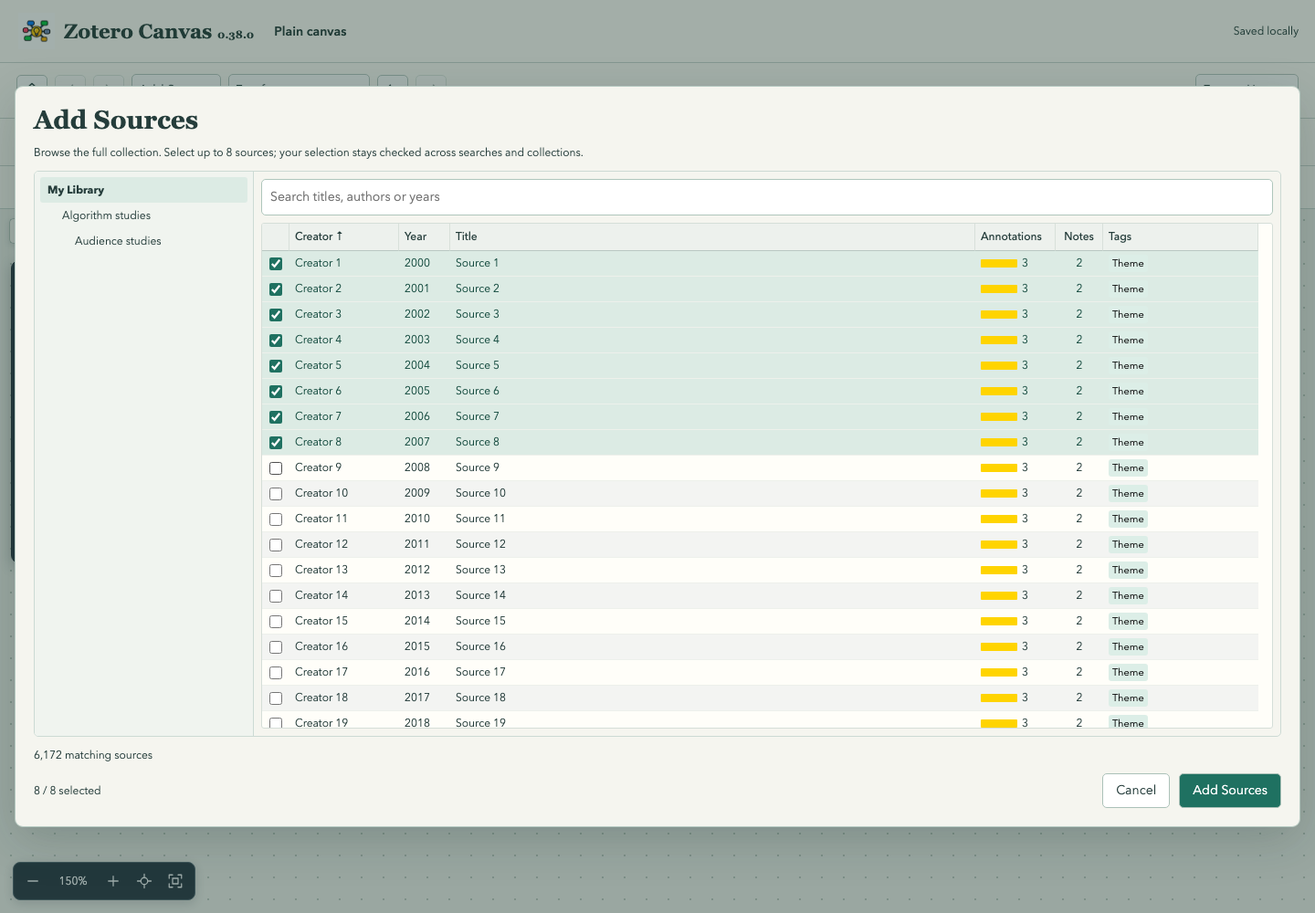
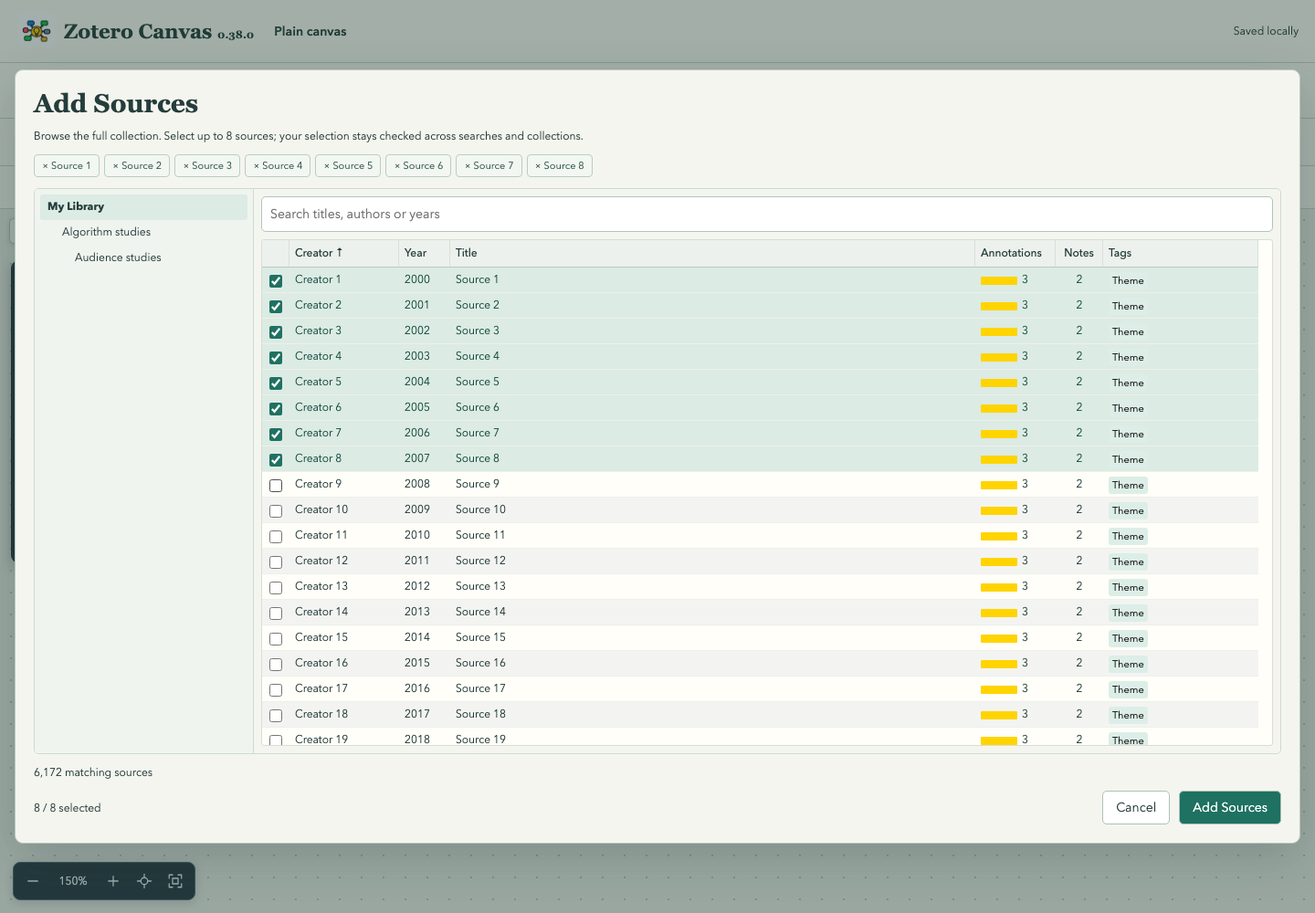
Open source picker on research canvas creation and exclude templates from Send to Canvas

Changed region(s): [[0.0, 0.062, 1.0, 0.93]]

diff --git a/content/source-picker.js b/content/source-picker.js
@@ -1,13 +1,16 @@
 'use strict';
 window.CanvasSourcePicker=function(ctx){
-  const el=ctx.element,shade=el('div'),dialog=el('section'),heading=el('h2'),help=el('p'),body=el('div'),tree=el('nav'),main=el('div'),search=el('input'),list=el('div'),more=el('button'),message=el('p'),focus=el('input'),footer=el('div'),count=el('span'),cancel=el('button'),confirm=el('button');
+  const el=ctx.element,shade=el('div'),dialog=el('section'),heading=el('h2'),help=el('p'),sourceMode=el('div'),selectedTray=el('div'),body=el('div'),tree=el('nav'),main=el('div'),search=el('input'),list=el('div'),more=el('button'),message=el('p'),focus=el('input'),footer=el('div'),count=el('span'),cancel=el('button'),confirm=el('button');
   shade.id='source-picker-shade';shade.className='dialog-shade';shade.hidden=true;dialog.id='source-picker';dialog.setAttribute('role','dialog');dialog.setAttribute('aria-modal','true');dialog.setAttribute('aria-labelledby','source-picker-title');heading.id='source-picker-title';heading.textContent='Add Sources';help.textContent='Browse the full collection. Select up to 8 sources; your selection stays checked across searches and collections.';
   body.className='source-picker-body';tree.setAttribute('aria-label','Zotero libraries and collections');main.className='source-picker-items';search.type='search';search.maxLength=300;search.placeholder='Search titles, authors or years';search.setAttribute('aria-label','Search Zotero sources');list.id='source-picker-items';more.type='button';more.textContent='Retry loading sources';more.hidden=true;message.setAttribute('role','status');focus.placeholder='Optional topic, concept or question';focus.maxLength=500;focus.setAttribute('aria-label','Focus for AI analysis');footer.className='source-picker-actions';cancel.type=confirm.type='button';cancel.textContent='Cancel';confirm.textContent='Add Sources';
-  main.append(search,list,more);body.append(tree,main);footer.append(count,cancel,confirm);dialog.append(heading,help,body,focus,message,footer);shade.append(dialog);document.body.append(shade);
+  sourceMode.className='source-picker-mode';sourceMode.hidden=true;const extend=el('button'),replace=el('button');for(const button of [extend,replace])button.type='button';extend.textContent='Keep and add sources';replace.textContent='Replace current sources';sourceMode.append(extend,replace);selectedTray.className='source-picker-selected';selectedTray.setAttribute('aria-label','Selected sources');selectedTray.hidden=true;
+  main.append(search,list,more);body.append(tree,main);footer.append(count,cancel,confirm);dialog.append(heading,help,sourceMode,selectedTray,body,focus,message,footer);shade.append(dialog);document.body.append(shade);
   const table=el('table'),thead=el('thead'),tbody=el('tbody'),pageSize=80,rowHeight=28,pages=new Map(),pending=new Map(),failed=new Set();table.className='source-table';table.setAttribute('aria-label','Zotero sources');list.tabIndex=0;list.setAttribute('role','region');list.setAttribute('aria-label','Source items');table.append(thead,tbody);list.append(table);let session='',sortBy='creator',sortDirection='asc',scrollFrame=null;
-  let catalog=[],selected=new Map(),libraryID=null,collectionID=null,offset=0,total=0,rows=[],request=0,busy=false,openingBoard=null,timer;
+  let catalog=[],selected=new Map(),existing=new Map(),libraryID=null,collectionID=null,offset=0,total=0,rows=[],request=0,busy=false,openingBoard=null,timer;
   const fail=error=>{message.textContent=error.message;message.classList.add('error');more.hidden=false;};
-  function update(){count.textContent=selected.size+' / 8 selected';confirm.disabled=busy||!selected.size;cancel.disabled=busy;search.disabled=busy;focus.disabled=busy;more.disabled=busy;for(const b of [...tree.querySelectorAll('button'),...thead.querySelectorAll('button')])b.disabled=busy;}
+  function update(){count.textContent=selected.size+' / 8 selected';selectedTray.hidden=!selected.size;selectedTray.replaceChildren();for(const row of selected.values()){const chip=el('button');chip.type='button';chip.textContent='× '+row.title;chip.title=row.title;chip.setAttribute('aria-label','Remove source '+row.title);chip.disabled=busy;chip.onclick=()=>{selected.delete(row.id);renderRows();update();};selectedTray.append(chip);}confirm.disabled=busy||!selected.size;cancel.disabled=busy;search.disabled=busy;focus.disabled=busy;more.disabled=busy;for(const b of [...tree.querySelectorAll('button'),...thead.querySelectorAll('button'),extend,replace])b.disabled=busy;}
+  function chooseMode(keep){selected=keep?new Map(existing):new Map();extend.setAttribute('aria-pressed',String(keep));replace.setAttribute('aria-pressed',String(!keep));renderRows();update();}
+  extend.onclick=()=>chooseMode(true);replace.onclick=()=>chooseMode(false);
   function close(){if(busy)return;request++;clearTimeout(timer);shade.hidden=true;document.getElementById('add-zotero')?.focus();}
   function renderHead(){
     const tr=el('tr');for(const [key,label] of [['select','Select'],['creator','Creator'],['year','Year'],['title','Title'],['annotations','Annotations'],['notes','Notes'],['tags','Tags']]){
@@ -44,7 +47,7 @@ window.CanvasSourcePicker=function(ctx){
   }
   async function load(){request++;session=crypto.randomUUID();pages.clear();pending.clear();failed.clear();total=0;list.scrollTop=0;tbody.replaceChildren();more.hidden=true;message.classList.remove('error');message.textContent='Loading sources…';await loadPage(0);}
   function renderTree(){tree.replaceChildren();for(const library of catalog){const lib=el('button');lib.type='button';lib.textContent=library.name;lib.className='source-library';lib.setAttribute('aria-pressed',String(library.id===libraryID&&collectionID===null));lib.onclick=()=>{libraryID=library.id;collectionID=null;renderTree();load();};tree.append(lib);const byID=new Map(library.collections.map(c=>[c.id,c]));for(const c of library.collections){let depth=0,parent=c.parentID;const seen=new Set([c.id]);while(parent&&byID.has(parent)&&!seen.has(parent)&&depth<8){seen.add(parent);depth++;parent=byID.get(parent).parentID;}const button=el('button');button.type='button';button.textContent=c.name;button.style.paddingLeft=(24+depth*14)+'px';button.setAttribute('aria-pressed',String(library.id===libraryID&&c.id===collectionID));button.onclick=()=>{libraryID=library.id;collectionID=c.id;renderTree();load();};tree.append(button);}}update();}
-  async function open(){if(!ctx.bridge.sourceCatalog||!ctx.bridge.sourceItems){ctx.report(Error('Add Sources is available in the installed Zotero plugin.'));return;}selected=new Map();search.value=focus.value='';openingBoard=ctx.getBoard().id;shade.hidden=false;renderHead();message.textContent='Loading Zotero libraries…';confirm.textContent=ctx.getBoard().templateDraft||ctx.getBoard().templateBlueprint?'Populate template':'Add Sources';focus.hidden=confirm.textContent==='Add Sources';update();try{const token=++request;catalog=await ctx.bridge.sourceCatalog();if(token!==request||shade.hidden)return;if(!catalog.length)throw Error('No Zotero libraries are available.');libraryID=catalog[0].id;collectionID=null;renderTree();await load();search.focus();}catch(error){fail(error);}}
+  async function open(){if(!ctx.bridge.sourceCatalog||!ctx.bridge.sourceItems){ctx.report(Error('Add Sources is available in the installed Zotero plugin.'));return;}selected=new Map();existing=new Map();pages.clear();total=0;search.value='';const opening=ctx.getBoard();focus.value=opening.sourceFocus||'';openingBoard=opening.id;shade.hidden=false;renderHead();message.textContent='Loading Zotero libraries…';confirm.textContent=opening.templateDraft||opening.templateBlueprint?'Populate template':'Add Sources';focus.hidden=confirm.textContent==='Add Sources';sourceMode.hidden=true;update();try{const token=++request;const [nextCatalog,sources]=await Promise.all([ctx.bridge.sourceCatalog(),opening.templateBlueprint&&ctx.bridge.sourceSelection?ctx.bridge.sourceSelection(opening):[]]);if(token!==request||shade.hidden)return;catalog=nextCatalog;if(!catalog.length)throw Error('No Zotero libraries are available.');existing=new Map(sources.map(row=>[row.id,row]));sourceMode.hidden=!existing.size;if(existing.size)chooseMode(true);libraryID=catalog[0].id;collectionID=null;renderTree();await load();search.focus();}catch(error){fail(error);}}
   search.oninput=()=>{clearTimeout(timer);request++;timer=setTimeout(()=>load(),220);};more.onclick=()=>{failed.clear();more.hidden=true;if(!total)load();else renderRows();};cancel.onclick=close;
   list.onscroll=()=>{if(scrollFrame!==null)return;scrollFrame=requestAnimationFrame(()=>{scrollFrame=null;renderRows();});};
   confirm.onclick=async()=>{if(busy||!selected.size)return;if(ctx.getBoard().id!==openingBoard){fail(Error('The canvas changed. Close this picker and choose sources again.'));return;}busy=true;update();renderRows();message.classList.remove('error');message.textContent='Reading selected sources…';try{await ctx.apply([...selected.keys()],focus.value,text=>message.textContent=text);busy=false;close();}catch(error){fail(error);}finally{busy=false;update();renderRows();}};

diff --git a/content/canvas.js b/content/canvas.js
@@ -626,7 +626,7 @@ async function closeNote() {
   finally { if (noteFrame) noteFrame.inert = false; $('close-note').disabled = false; }
 }
 function itemNode(item,x,y){const n=M.node(x,y,item.title,item.text);n.link=item.link;if(item.metadata)n.metadata=M.clone(item.metadata);n.kind=item.kind||'reference';if(n.kind==='annotation'){n.annotationHTML=item.annotationHTML;if(item.evidenceQuote?.length>=12)n.evidenceQuote=item.evidenceQuote;if(item.annotationColour){n.annotationColour=item.annotationColour;n.annotationColourName=item.annotationColourName||'Custom colour';}if(item.annotationKey)n.annotationKey=item.annotationKey;}return n;}
-function addItems(items,x,y){if(!items.length){status('Select or drop notes and references from Zotero first.');return;}checkpoint();items.forEach((item,i)=>board.nodes.push(itemNode(item,x+i*35,y+i*45)));changed();render();}
+function addItems(items,x,y){if(board.templateDraft)throw Error('Zotero items can be sent to active canvases only. Edit template instructions from Templates.');if(!items.length){status('Select or drop notes and references from Zotero first.');return;}checkpoint();items.forEach((item,i)=>board.nodes.push(itemNode(item,x+i*35,y+i*45)));changed();render();}
 async function addCounterexample(row,sourceID,expectedBoard){
   if(board!==expectedBoard)throw Error('The canvas changed. Search again.');const source=board.nodes.find(n=>n.id===sourceID);if(!source)throw Error('The selected card was removed.');
   const existing=board.nodes.find(n=>n.link&&n.link.libraryID+'/'+(n.annotationKey||n.link.key)===row.key);if(existing)throw Error('This source is already on the canvas.');
@@ -1083,12 +1083,12 @@ async function applyPickedSources(ids,focus,onProgress){
     instructions.id=board.id;instructions.title=board.title;instructions.view=M.clone(board.view);
     const result=await bridge.fillTemplateFromSources(instructions,ids,focus,step=>{if(board!==active||revision!==rev)throw Error('The canvas changed. No generated cards were applied.');onProgress('Analysing '+(step.number===null?'cards':'step '+step.number)+' ('+step.index+'/'+step.total+')…');});
     if(board!==active||revision!==rev)throw Error('The canvas changed. No generated cards were applied.');
-    checkpoint();result.board.mode=active.mode;board=M.validate(result.board);changed();render();fit();await flush();if(board.templateOmissions?.length)showTemplateOmissions();status(result.filled+' cards filled from selected sources; '+(board.templateOmissions?.length||0)+' conditional branches omitted.');
+    checkpoint();result.board.mode=active.mode;result.board.sourceItemIDs=[...ids];result.board.sourceFocus=focus;board=M.validate(result.board);changed();render();fit();await flush();if(board.templateOmissions?.length)showTemplateOmissions();status(result.filled+' cards filled from selected sources; '+(board.templateOmissions?.length||0)+' conditional branches omitted.');
   }else{
     if(!bridge.sourceCards)throw Error('Source selection is available in the installed Zotero plugin.');const items=await bridge.sourceCards(ids);if(board!==active||revision!==rev)throw Error('The canvas changed. Choose sources again.');addItems(items,(60-board.view.x)/board.view.zoom,(60-board.view.y)/board.view.zoom);fit();await flush();
   }
 }
-window.CanvasApp = {updateNavigation,defaultTemplatesReset,placeObject:(spec,at)=>objectTools.place(spec,at),updateDefaults:value=>M.setDefaults(value),refreshMeanings:values=>{customMeanings=values.map(p=>M.meaning(p.id,p.title,p));renderMeanings();}, obsidianBundle:()=>workspace.obsidianBundle(), createBoard, openBoard:switchBoard, renameBoard, trashBoard, insertCanvas, refreshExplorer:()=>explorer.refresh(), jumpTo, restoreBoard, exportData: options => workspace.exportData(options), async receiveItems(id, items) { await refreshList(); if (board.id !== id) await switchBoard(id); addItems(items, (80 - board.view.x) / board.view.zoom, (100 - board.view.y) / board.view.zoom); fit(); await flush(); },async flush() { finishLabel(); await saveInlineNotes(); await refreshNotes(); await Promise.allSettled([...relationTasks]); await flush(); }, closeNote, closeInlineNotes: () => saveInlineNotes(true), closeNoteMenu() { if (noteMenuID) { noteMenuID = null; render(); } }, noteStatus, previewWarning, previewRevoked(id) { const slot = [...$('cards').querySelectorAll('.note-preview')].find(el => el.closest('.card').dataset.id === id); if (slot && slot.dataset.editable !== 'false') { slot.dataset.editing = 'false'; slot.dataset.editable = 'false'; render(); } }, styleNote(id) { if (board.nodes.some(n => n.id === id && n.kind === 'note')) openStyles('node', id); }, getBoard: () => board ? M.clone(board) : null};
+window.CanvasApp = {updateNavigation,defaultTemplatesReset,placeObject:(spec,at)=>objectTools.place(spec,at),updateDefaults:value=>M.setDefaults(value),refreshMeanings:values=>{customMeanings=values.map(p=>M.meaning(p.id,p.title,p));renderMeanings();}, obsidianBundle:()=>workspace.obsidianBundle(), createBoard, openBoard:switchBoard, openSourcePicker:()=>sourcePicker.open(), renameBoard, trashBoard, insertCanvas, refreshExplorer:()=>explorer.refresh(), jumpTo, restoreBoard, exportData: options => workspace.exportData(options), async receiveItems(id, items) { await refreshList(); if (board.id !== id) await switchBoard(id); addItems(items, (80 - board.view.x) / board.view.zoom, (100 - board.view.y) / board.view.zoom); fit(); await flush(); },async flush() { finishLabel(); await saveInlineNotes(); await refreshNotes(); await Promise.allSettled([...relationTasks]); await flush(); }, closeNote, closeInlineNotes: () => saveInlineNotes(true), closeNoteMenu() { if (noteMenuID) { noteMenuID = null; render(); } }, noteStatus, previewWarning, previewRevoked(id) { const slot = [...$('cards').querySelectorAll('.note-preview')].find(el => el.closest('.card').dataset.id === id); if (slot && slot.dataset.editable !== 'false') { slot.dataset.editing = 'false'; slot.dataset.editable = 'false'; render(); } }, styleNote(id) { if (board.nodes.some(n => n.id === id && n.kind === 'note')) openStyles('node', id); }, getBoard: () => board ? M.clone(board) : null};
 (async () => {
   try {
     if(bridge.getSettings)M.setDefaults(await bridge.getSettings());

diff --git a/bootstrap.js b/bootstrap.js
@@ -421,6 +421,23 @@ async function startup({rootURI}) {
       if(!Array.isArray(ids)||!ids.length||ids.length>8||ids.some(id=>!Number.isSafeInteger(id)||id<1))throw Error('Select 1–8 Zotero sources.');
       const items=await Zotero.Items.getAsync([...new Set(ids)]);if(items.some(i=>!i||i.deleted||!i.isRegularItem()))throw Error('A selected source is no longer available.');return Promise.all(items.map(describe));
     },
+    async sourceSelection(board){
+      CanvasModel.validate(board);
+      let ids=board.sourceItemIDs;
+      if(!ids&&board.templateBlueprint){
+        const found=new Set();
+        for(const node of board.nodes){
+          if(!node.link)continue;
+          const linked=await Zotero.Items.getByLibraryAndKeyAsync(node.link.libraryID,node.link.key);
+          const source=linked?.isRegularItem()?linked:linked?.parentItemID?await Zotero.Items.getAsync(linked.parentItemID):null;
+          if(source?.isRegularItem()&&!source.deleted)found.add(source.id);
+        }
+        ids=[...found].slice(0,8);
+      }
+      if(!ids?.length)return [];
+      const items=await Zotero.Items.getAsync(ids);
+      return ids.map((id,index)=>({id,title:items[index]&&!items[index].deleted?items[index].getField('title')||items[index].key:'Unavailable source #'+id}));
+    },
     async fillTemplateFromSources(board,ids,focus='',progress=null){
       if(!Array.isArray(ids)||!ids.length||ids.length>8||ids.some(id=>!Number.isSafeInteger(id)||id<1))throw Error('Select 1–8 Zotero sources.');
       const items=await Zotero.Items.getAsync([...new Set(ids)]);if(items.some(i=>!i||i.deleted||!i.isRegularItem()))throw Error('A selected source is no longer available.');return this.fillTemplate(board,focus,progress,items);
@@ -527,6 +544,7 @@ async function startup({rootURI}) {
     return {board:CanvasTemplates.fill(CanvasModel,board,checked),filled:checked.entries.length,rejected:checked.rejected,unread:items.length-available.length};
   };
   canvasBridge.dashboardOpenBoard=async(id,reload=false)=>showRoute({kind:'canvas',id,reload});
+  canvasBridge.dashboardOpenSourcePicker=async id=>{if(!canvasWindow||canvasWindow.closed||canvasWindow.CanvasApp?.getBoard()?.id!==id)throw Error('Open the new canvas before choosing sources.');await canvasWindow.CanvasApp.openSourcePicker();};
   canvasBridge.dashboardCreateTemplate=async()=>{await canvasWindow?.CanvasApp?.flush();const library=await canvasBridge.listTemplates(),conditional=library.custom.find(row=>row.name.trim().toLocaleLowerCase()==='conditional branches example');const board=CanvasTemplates.createCustom(CanvasModel,conditional);board.id='template-draft-new';await canvasBridge.save(board);await canvasBridge.dashboardOpenBoard(board.id,true);canvasWindow.document.getElementById('fit').click();await canvasWindow.CanvasApp.flush();return board.id;};
   canvasBridge.dashboardEditTemplate=async(mode,id)=>{
     await canvasWindow?.CanvasApp?.flush();
@@ -665,11 +683,12 @@ async function sendToCanvas(window, getItems) {
   const items = (await getItems()).filter(item => item && !item.deleted);
   if (!items.length) throw Error('No available items selected.');
   if (items.length > 200) throw Error('Send up to 200 items at a time. Select a smaller group in the item list.');
-  const boards = await canvasBridge.list();
-  if (!boards.length) throw Error('Create a board in Zotero Canvas first.');
+  const boards = (await canvasBridge.list()).filter(board => !board.templateDraft);
+  if (!boards.length) throw Error('Create a canvas in Zotero Canvas first. Templates are edited in Templates.');
   const chosen = {value: 0};
   if (!Services.prompt.select(window, 'Send to Canvas', 'Choose a canvas for ' + items.length + ' item(s):', boards.map(b => b.title), chosen)) return;
   const target = boards[chosen.value];
+  if((await canvasBridge.load(target.id)).templateDraft)throw Error('This canvas is now an instruction template. Choose an active canvas instead.');
   const descriptions = await canvasBridge.fromDrop(items.map(i => i.id).join(','));
   await ensureCanvas(window);
   await canvasWindow.CanvasApp.receiveItems(target.id, descriptions);

diff --git a/content/dashboard.js b/content/dashboard.js
@@ -7,6 +7,7 @@ window.addEventListener('DOMContentLoaded',()=>{
   const svg=(tag,attributes={})=>{const element=document.createElementNS(svgNS,tag);for(const [key,value] of Object.entries(attributes))element.setAttribute(key,String(value));return element;};
   let rows=[],library,folderID=null,layout='grid',dialogKind=null,request=0,templateLibrary=CanvasTemplates.empty(),deletePending=false;
   let managerLibrary=CanvasTemplates.empty(),resetDefaultsPending=false,deleteCustomPending=false,restoreOnePending=false;
+  const sourceFirstModes=new Set(['matrix','literature','evidence','conceptmap','affinity','debate']);
   const fail=error=>{console.error(error);$('status').textContent=error.message||String(error);$('status').classList.add('error');};
   const act=fn=>()=>Promise.resolve().then(fn).catch(fail);
   const templatePickers=[];
@@ -124,6 +125,7 @@ window.addEventListener('DOMContentLoaded',()=>{
   async function openDialog(kind){
     dialogKind=kind;$('dialog-title').textContent=kind==='folder'?'New folder':'New '+CanvasFormats.modes[kind].toLowerCase();$('new-name').value='';deletePending=false;
     const structured=CanvasTemplates.formats.includes(kind);$('template-choice').hidden=!structured;
+    $('template-choice-hint').textContent=sourceFirstModes.has(kind)?'After creating this canvas, choose Zotero sources to populate it. You can change them later with Add Sources.':'Cards contain editable AI instructions. Select Zotero sources, then use Fill with AI in the canvas.';
     if(structured){templateLibrary=bridge.listTemplates?await bridge.listTemplates():CanvasTemplates.empty();renderTemplateChoices();}
     $('dialog-shade').hidden=false;$('new-name').focus();
   }
@@ -142,7 +144,7 @@ window.addEventListener('DOMContentLoaded',()=>{
   document.addEventListener('keydown',event=>{if(event.key==='Escape'){const open=templatePickers.find(p=>!p.choices.group.hidden);if(open){open.close();open.toggle.focus();return;}if(!$('dialog-shade').hidden)closeDialog();if(!$('templates-shade').hidden)$('close-templates').click();}});
   $('create-dialog').onsubmit=event=>{event.preventDefault();const name=$('new-name').value.trim(),kind=dialogKind;if(!name)return;
     const template=CanvasTemplates.formats.includes(kind)?$('new-template').value:null,makeDefault=template&&$('template-default').checked;
-    closeDialog();Promise.resolve().then(async()=>{if(kind==='folder')await bridge.dashboardCreateFolder(name,folderID);else{if(makeDefault&&bridge.updateTemplateDefault)await bridge.updateTemplateDefault(kind,template);await bridge.dashboardCreateBoard(name,kind,folderID,template);}await refresh();}).catch(fail);
+    closeDialog();Promise.resolve().then(async()=>{if(kind==='folder')await bridge.dashboardCreateFolder(name,folderID);else{if(makeDefault&&bridge.updateTemplateDefault)await bridge.updateTemplateDefault(kind,template);const id=await bridge.dashboardCreateBoard(name,kind,folderID,template);if(sourceFirstModes.has(kind))await bridge.dashboardOpenSourcePicker(id);}await refresh();}).catch(fail);
   };
   $('all-canvases').onclick=()=>{folderID=null;render();};$('search').oninput=()=>renderCanvases().catch(fail);
   for(const [id,value] of [['grid-view','grid'],['list-view','list']])$(id).onclick=()=>{layout=value;$('grid-view').setAttribute('aria-pressed',String(value==='grid'));$('list-view').setAttribute('aria-pressed',String(value==='list'));renderCanvases().catch(fail);};

diff --git a/content/model.js b/content/model.js
@@ -52,6 +52,8 @@
     if(b.mindmapDirection!==undefined&&!['horizontal','vertical'].includes(b.mindmapDirection))throw Error('Invalid mind map direction.');
     if(b.templateBlueprint!==undefined){if(depth||!b.templateBlueprint?.templateDraft||b.templateBlueprint.nodes?.length>40||b.templateBlueprint.edges?.length>80)throw Error('Invalid saved template instructions.');validate(b.templateBlueprint,1);if(b.templateBlueprint.nodes.some(n=>n.link||n.kind||n.objectType))throw Error('Saved template instructions must be source-free.');}
     if(b.templateDraft!==undefined&&typeof b.templateDraft!=='boolean')throw Error('Invalid template state.');
+    if(b.sourceItemIDs!==undefined&&(!Array.isArray(b.sourceItemIDs)||b.sourceItemIDs.length>8||new Set(b.sourceItemIDs).size!==b.sourceItemIDs.length||b.sourceItemIDs.some(value=>!Number.isSafeInteger(value)||value<1)))throw Error('Invalid canvas source selection.');
+    if(b.sourceFocus!==undefined&&(typeof b.sourceFocus!=='string'||b.sourceFocus.length>500))throw Error('Invalid canvas source focus.');
     if(b.templateSourceID!==undefined&&(!b.templateDraft||typeof b.templateSourceID!=='string'||!/^[a-zA-Z0-9-]{1,80}$/.test(b.templateSourceID)||typeof b.templateSourceName!=='string'||!b.templateSourceName.trim()||b.templateSourceName.length>100))throw Error('Invalid template editing source.');
     if(b.templateDefaultMode!==undefined&&(!b.templateDraft||!F.structured.has(b.templateDefaultMode)||b.mode!==b.templateDefaultMode||!Number.isSafeInteger(b.templateDefaultRevision)||b.templateDefaultRevision<0))throw Error('Invalid default template editor.');
     if(b.templateOmissions!==undefined&&(!Array.isArray(b.templateOmissions)||b.templateOmissions.length>32||b.templateOmissions.some(row=>!row||typeof row.title!=='string'||row.title.length>500||typeof row.condition!=='string'||row.condition.length>300||typeof row.reason!=='string'||row.reason.length>500||typeof row.source!=='string'||row.source.length>100)))throw Error('Invalid template omission report.');

diff --git a/content/canvas.css b/content/canvas.css
@@ -116,6 +116,13 @@ header,nav,#search-form,#filter-panel,#export-panel{min-width:0}button,input,tex
 #source-picker{width:min(1460px,calc(100vw - 32px));max-height:calc(100vh - 32px);padding:20px;display:flex;flex-direction:column;gap:12px;overflow:auto;background:var(--paper,#fffef8);border:1px solid #b5c9c1;border-radius:9px;box-shadow:0 16px 50px #17342e33;color:#253d3b}
 #source-picker h2{margin:0;font:600 28px Georgia,serif}
 #source-picker p{margin:0;font-size:12px}
+.source-picker-mode{display:flex;gap:6px;align-self:flex-start;padding:3px;border:1px solid #bed1c8;border-radius:6px;background:#eaf0eb}
+.source-picker-mode[hidden]{display:none}
+.source-picker-mode button{padding:6px 11px;border:0;border-radius:4px;background:transparent;color:#294e45;font-size:12px}
+.source-picker-mode button[aria-pressed=true]{background:#fffef9;box-shadow:0 1px 3px #17342e25;font-weight:700}
+.source-picker-selected{display:flex;flex-wrap:wrap;gap:5px;max-height:78px;overflow:auto}
+.source-picker-selected[hidden]{display:none}
+.source-picker-selected button{max-width:250px;padding:4px 8px;border:1px solid #b8cec3;border-radius:4px;background:#f3f7f1;color:#285144;white-space:nowrap;overflow:hidden;text-overflow:ellipsis;font-size:11px}
 .source-picker-body{display:grid;grid-template-columns:240px minmax(0,1fr);height:min(620px,62vh);min-height:180px;flex-shrink:1;border:1px solid #ccdad4;border-radius:5px;overflow:hidden}
 .source-picker-body nav{display:block;min-height:0;overflow:auto;padding:6px;background:#f0f4ef;border-right:1px solid #ccdad4;border-bottom:0}
 .source-picker-body nav button{display:block;text-align:left;width:100%;height:28px;min-height:28px;margin:0;padding:4px 8px;border:0;border-radius:3px;background:transparent;font-size:12px;white-space:nowrap;overflow:hidden;text-overflow:ellipsis}

diff --git a/README.md b/README.md
@@ -41,10 +41,10 @@ The tested version is Zotero 10.0.6 on macOS. Other Zotero 10.0 builds and opera
 - Custom templates are separate from assigned format defaults. Create a source-free freeform canvas or mind map with AI instructions in its cards, then use **Save template**. In the dashboard Templates browser, choose **Custom templates (all formats)** to view, edit or delete named templates. Templates belonging to a structured format may also be assigned as that format’s default.
 - Right-click blank space to add a card or frame, or to group selected cards and ungroup them later. Drag a grouped card's heading or the group heading to move its members together; ordinary frames remain separate. Use the left object toolbar for shapes, sticky notes, text, tables, wireframes, templates, images, files and [Excalidraw library](https://libraries.excalidraw.com/) imports. Click the active icon again to close its palette.
 - Drag a card port onto another card to connect them; click a port to create a smaller child card. Right-click any connector and choose **Add junction** to place a circular node there, then drag that node to a card or another connector. Dropping a card's connector onto a line also creates a junction. Edit route points, arrowheads, colour, thickness and labels from the connector controls.
-- Use the format menu to arrange existing cards as a Concept Map, evidence map, comparison matrix, timeline, literature map or process diagram. For a blank comparison matrix, select sources in Zotero's main library pane and click **+ Zotero selection**, or drag them onto the canvas. Generated Concept Maps centre a source-backed definition and spread other cards into four branches; manually arranged Concept Maps centre the first card. Mind maps can run horizontally or vertically; parent-child links attach to facing sides and use direct lines. Drag a card heading to adjust either layout, or choose **Reflow** to restore its automatic position. Switching formats keeps source links and freeform positions.
+- Use the format menu to arrange existing cards as a Concept Map, evidence map, comparison matrix, timeline, literature map or process diagram. Generated Concept Maps centre a source-backed definition and spread other cards into four branches; manually arranged Concept Maps centre the first card. Mind maps can run horizontally or vertically; parent-child links attach to facing sides and use direct lines. Drag a card heading to adjust either layout, or choose **Reflow** to restore its automatic position. Switching formats keeps source links and freeform positions.
 - The dashboard includes ten editable research templates: Concept Map, Evidence Map, Comparison Matrix, Timeline, Literature Map, Process Diagram, Research Design, Research Review, Affinity Diagram and Debate Tree. The Timeline starter uses a dated horizontal connector spine with circular branch junctions. Each template has native cards and connectors with instructions in the card text. Click a card body to edit those instructions; add, move or link cards as needed. Use **Save template** to keep a named copy, optionally set it as the default for that format, and choose it when creating another canvas. The dashboard's creation dialog also lets you select a different template or restore the built-in default.
 - **Home**, **Back** and **Forward** navigate between the dashboard, Templates and open canvases. Creating or editing a template instantly hides the dashboard window without a minimise animation; Back returns to Templates, while Home shows the dashboard with the Templates panel closed. Drafts are preserved when navigating.
-- **Add Sources** opens a compact, searchable Zotero library and collection explorer with Creator, Year, Title, Annotations, Notes and Tags columns. Scroll through the entire collection, with fixed headers and sortable Creator/Year/Title fields; annotation colour indicators, note counts and coloured tags retain their source metadata. The eight-source limit applies only to selection, not browsing. Select up to eight references across searches and collections, add an optional focus, then **Populate template** to fill its cards. You do not need to preselect sources in Zotero. A filled canvas retains its original instructions so Add Sources can rerun it with a new selection; Undo restores the previous result. On an ordinary freeform canvas, Add Sources inserts linked reference cards. Source selection, AI generation and manual editing are separate actions: selecting checkboxes alone changes nothing on the canvas.
+- Creating a Comparison Matrix, Literature map, Evidence map, Concept Map, Affinity Diagram or Debate Tree from the dashboard opens **Add Sources** as soon as you name it. The compact Zotero library and collection explorer shows Creator, Year, Title, Annotations, Notes and Tags. Scroll through the entire collection, with fixed headers and sortable Creator/Year/Title fields. Select up to eight references across searches and collections, add an optional focus, then **Populate template**. A filled canvas remembers its sources and original instructions. Later **Add Sources** offers **Keep and add sources** or **Replace current sources**, shows removable selected-source chips and regenerates from the complete chosen set; Undo restores the previous result. On a freeform canvas, Add Sources inserts linked reference cards. Selecting checkboxes alone changes nothing on the canvas.
 - **Research Design** arranges the problem, literature, questions, theory, assumptions, methods, sample, observations and contributions into panels. **Research Review** separates review scope, supported claims, challenges, emergent findings, open questions and implications. Optional sections require evidence in the supplied passages and otherwise appear in Omitted branches. These summarise the selected sources; they do not invent your study design.
 - **Affinity Diagram** groups observations by theme, retaining differences and unresolved cases. Right-click a card → Place in view to change its Theme / group. **Debate Tree** arranges a central claim with supporting evidence, counterarguments, qualifications and replies. All four formats have editable defaults and support named custom templates.
 - To fill an instruction canvas, select 1–8 regular Zotero sources in the main library pane and click **Fill with AI**. An optional focus can steer this run. Each filled card must cite an exact supplied excerpt and retains its Zotero link and page location when available; unsupported optional branches are omitted. A Comparison Matrix repeats its instruction rows for each selected source. The original template remains saved separately; a failed or ungrounded AI response leaves the canvas unchanged. [Concept Map preview](docs/images/concept-template.png) · [Timeline preview](docs/images/timeline-template.png).

diff --git a/CHANGELOG.md b/CHANGELOG.md
@@ -1,5 +1,7 @@
 # Changes
 
+- 0.39.0: New Comparison Matrix, Literature map, Evidence map, Concept Map, Affinity Diagram and Debate Tree canvases open Add Sources after naming. Generated canvases retain selected source IDs and focus. Later Add Sources offers Keep and add or Replace, shows removable source chips and regenerates from the chosen set; Undo restores the previous graph. Older generated canvases recover sources from linked cards when possible. Send to Canvas offers active canvases only, and Zotero items cannot be dropped into instruction templates.
+
 - 0.38.0: Replaces the Add Sources card list with a compact Zotero-style table: Creator, Year, Title, Annotations, Notes and Tags. Fixes list-pane overflow; supports full-collection scrolling with a fixed header, virtual rows and on-demand metadata pages. Adds Creator/Year/Title sorting, annotation colour indicators, note counts and coloured tags. Preserves the eight-source selection limit and existing template run behavior.
 
 - 0.37.0: Adds Back/Forward navigation between dashboard, Templates and canvases, instantly hiding the inactive window without minimise/restore animation; Home returns to the dashboard. Adds Research Design, Research Review, Affinity Diagram and Debate Tree as built-in formats with editable defaults, source-grounded instructions and optional evidence conditions. Add Sources replaces Zotero selection with a searchable library/collection browser and persistent multi-selection. Populates empty templates and reruns filled canvases from retained source-free instructions; keeps citations and one-step Undo. Existing Fill with AI remains available for the main Zotero selection.
